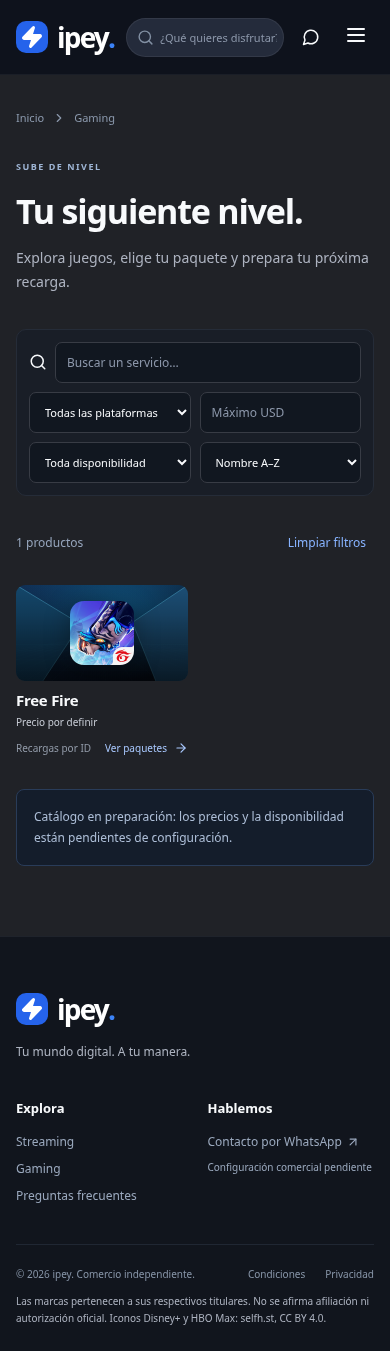
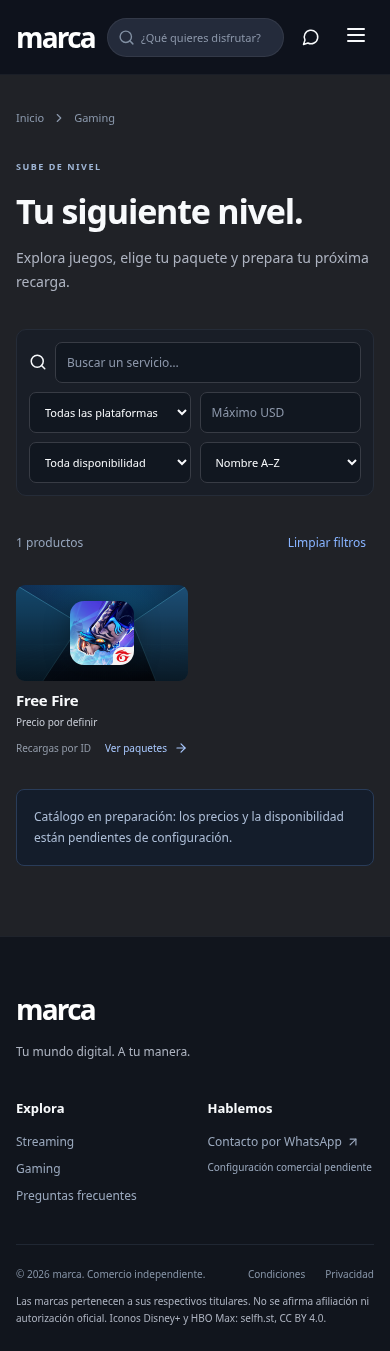
Sustituir identidad provisional por el texto marca

diff --git a/src/main.tsx b/src/main.tsx
@@ -1,6 +1,6 @@
 import React,{useEffect,useRef,useState} from 'react';
 import {createRoot} from 'react-dom/client';
-import {ArrowRight,ArrowUpRight,Search,Zap,Gamepad2,MessageCircle,Menu,X,Check,ShieldCheck,SlidersHorizontal,ChevronRight,Diamond,Clapperboard} from 'lucide-react';
+import {ArrowRight,ArrowUpRight,Search,Gamepad2,MessageCircle,Menu,X,Check,ShieldCheck,SlidersHorizontal,ChevronRight,Diamond} from 'lucide-react';
 import {business,catalog,type Product} from './catalog';
 import {money,purchasable,validPlayerId,whatsappUrl,orderMessage,promotion} from './commerce';
 import {ProductIdentity} from './ProductIdentity';
@@ -16,7 +16,7 @@ function App(){
  const filtered=products.filter(p=>(!category||p.category===category)&&(!query||`${p.name} ${p.description}`.toLowerCase().includes(query.toLowerCase()))&&(!selected||p.id===selected)&&(!duration||p.variants.some(v=>v.duration===Number(duration)))&&(!availability||p.variants.some(v=>purchasable(p,v)))&&(!max||p.variants.some(v=>v.price!==null&&v.price<=Number(max)))).sort((a,b)=>{const price=(p:Product)=>Math.min(...p.variants.filter(v=>v.price!==null).map(v=>v.price!));return sort==='asc'?price(a)-price(b)||a.name.localeCompare(b.name):sort==='desc'?price(b)-price(a)||a.name.localeCompare(b.name):a.name.localeCompare(b.name)});
  function reset(){setQuery('');setSelected('');setDuration('');setAvailability('');setMax('');setSort('name')}
  const contact=whatsappUrl('Hola, quisiera información sobre el catálogo.');
- return <><a className="skip" href="#contenido">Saltar al contenido</a><header><div className="nav wrap"><a className="brand" href="#/" aria-label="Ipey inicio"><span className="brand-mark"><Zap fill="currentColor" size={24}/></span>ipey<span className="brand-dot">.</span></a><nav className={menu?'open':''} aria-label="Principal">{[['/','Inicio'],['/streaming','Streaming'],['/juegos','Juegos']].map(([path,label])=><a key={path} onClick={reset} className={route===path?'active':''} href={`#${path}`}>{label}</a>)}</nav><form className="nav-search" onSubmit={e=>{e.preventDefault();location.hash='/buscar'}}><Search size={17}/><input aria-label="Buscar en el catálogo" placeholder="¿Qué quieres disfrutar?" value={query} onChange={e=>setQuery(e.target.value)}/></form><a className="contact" aria-label="Contacto por WhatsApp" href={contact||'#/contacto'}><MessageCircle size={18}/><span>Hablemos</span><ArrowUpRight size={15}/></a><button className="menu-button" aria-label="Abrir menú" aria-expanded={menu} onClick={()=>setMenu(!menu)}>{menu?<X/>:<Menu/>}</button></div></header>
+ return <><a className="skip" href="#contenido">Saltar al contenido</a><header><div className="nav wrap"><a className="brand" href="#/" aria-label="Inicio">marca</a><nav className={menu?'open':''} aria-label="Principal">{[['/','Inicio'],['/streaming','Streaming'],['/juegos','Juegos']].map(([path,label])=><a key={path} onClick={reset} className={route===path?'active':''} href={`#${path}`}>{label}</a>)}</nav><form className="nav-search" onSubmit={e=>{e.preventDefault();location.hash='/buscar'}}><Search size={17}/><input aria-label="Buscar en el catálogo" placeholder="¿Qué quieres disfrutar?" value={query} onChange={e=>setQuery(e.target.value)}/></form><a className="contact" aria-label="Contacto por WhatsApp" href={contact||'#/contacto'}><MessageCircle size={18}/><span>Hablemos</span><ArrowUpRight size={15}/></a><button className="menu-button" aria-label="Abrir menú" aria-expanded={menu} onClick={()=>setMenu(!menu)}>{menu?<X/>:<Menu/>}</button></div></header>
  <main id="contenido" className="wrap">
  {route==='/'?<><section className="hero storefront-hero"><div className="hero-copy"><span className="eyebrow"><span className="blue-dot"/> STREAMING · MÚSICA · GAMING</span><h1>Elige qué<br/><span>disfrutar hoy.</span></h1><p>Tus historias. Tu música. Tu próxima partida.<br/>Encuentra tus favoritos en un solo lugar.</p><div className="actions"><a className="button" href="#/streaming" onClick={reset}>Explorar streaming <ArrowRight size={18}/></a><a className="button secondary" href="#/juegos" onClick={reset}><Gamepad2 size={19}/> Ver juegos</a></div></div><div className="hero-feature" aria-hidden="true"><div className="feature-orbit"/><div className="feature-screen screen-cinema"><ProductIdentity id="netflix" name="Netflix"/><span>UNA HISTORIA MÁS.</span></div><div className="feature-screen screen-sound"><ProductIdentity id="spotify" name="Spotify"/><div className="equalizer">{[28,50,38,76,58,92,43,65,34,54,24].map((h,i)=><i key={i} style={{height:`${h}%`}}/>)}</div></div><div className="feature-screen screen-play"><Gamepad2/><span>DALE PLAY<br/>A TU MUNDO.</span><Diamond/></div><span className="hero-edition">ENTRETENIMIENTO A TU MANERA</span></div></section>
  <nav className="service-strip" aria-label="Servicios del catálogo">{products.map(p=><a key={p.id} href={`#/producto/${p.id}`} aria-label={`Explorar ${p.name}`}><ProductIdentity id={p.id} name={p.name}/><span>{p.name}</span></a>)}</nav>
@@ -24,7 +24,7 @@ function App(){
  <section className="gaming-banner"><div><span className="eyebrow">RECARGAS GAMING</span><h2>Más diamantes.<br/>Más posibilidades.</h2><p>Explora los paquetes de Free Fire y prepara tu solicitud con tu ID de jugador.</p><a className="button" href="#/producto/free-fire">Explorar paquetes <ArrowRight size={17}/></a></div><div className="diamond-art" aria-hidden="true"><Diamond/><ProductIdentity id="free-fire" name="Free Fire"/></div></section>
  {products.some(promotion)&&<section className="section offers"><div className="section-heading"><h2>Ofertas del catálogo</h2></div><div className="product-grid">{products.filter(promotion).map(p=><Card key={p.id} p={p}/>)}</div></section>}
  <section className="section how"><span className="eyebrow">SENCILLO, DE PRINCIPIO A FIN</span><h2>Tu entretenimiento, a cuatro pasos.</h2><div className="steps">{[['Elige tu servicio','Encuentra lo que va contigo.'],['Explora las opciones','Compara planes y paquetes.'],['Revisa tu solicitud','Confirma todos los detalles.'],['Continúa por WhatsApp','Consulta disponibilidad y compra.']].map(([t,d],i)=><div key={t}><span>0{i+1}</span><h3>{t}</h3><p>{d}</p></div>)}</div></section><Faq/></>:current?<Detail key={current.id} p={current}/>:category||route==='/buscar'?<section className="catalog-page"><div className="breadcrumb"><a href="#/">Inicio</a><ChevronRight size={14}/>{title}</div><span className="eyebrow">{category==='gaming'?'SUBE DE NIVEL':'ENTRETENIMIENTO A TU MANERA'}</span><h1>{category==='streaming'?'Dale play a tu mundo.':category==='gaming'?'Tu siguiente nivel.':'Encuentra lo que te gusta.'}</h1><p className="lead">{category==='gaming'?'Explora juegos, elige tu paquete y prepara tu próxima recarga.':'Tus plataformas favoritas, en un solo lugar. Explora y compara las modalidades del catálogo.'}</p><div className="filters"><label className="search-field"><Search size={18}/><input aria-label="Buscar servicios" placeholder="Buscar un servicio…" value={query} onChange={e=>setQuery(e.target.value)}/></label><SlidersHorizontal size={19}/><select aria-label="Plataforma" value={selected} onChange={e=>setSelected(e.target.value)}><option value="">Todas las plataformas</option>{products.filter(p=>!category||p.category===category).map(p=><option value={p.id} key={p.id}>{p.name}</option>)}</select>{category!=='gaming'&&<select aria-label="Duración" value={duration} onChange={e=>setDuration(e.target.value)}><option value="">Todas las duraciones</option><option value="1">1 mes</option><option value="3">3 meses</option></select>}<input type="number" min="0" aria-label="Precio máximo" placeholder={`Máximo ${business.currency}`} value={max} onChange={e=>setMax(e.target.value)}/><select aria-label="Disponibilidad" value={availability} onChange={e=>setAvailability(e.target.value)}><option value="">Toda disponibilidad</option><option value="yes">Disponibles</option></select><select aria-label="Ordenar" value={sort} onChange={e=>setSort(e.target.value)}><option value="name">Nombre A–Z</option><option value="asc">Menor precio</option><option value="desc">Mayor precio</option></select></div><div className="results"><span>{filtered.length} productos</span><button className="text-button" onClick={reset}>Limpiar filtros</button></div>{filtered.length?<div className="product-grid">{filtered.map(p=><Card key={p.id} p={p}/>)}</div>:<div className="empty"><Search/><h2>No encontramos resultados</h2><p>Prueba otro término o cambia los filtros.</p><button className="button" onClick={reset}>Mostrar todo</button></div>}<div className="notice">Catálogo en preparación: los precios y la disponibilidad están pendientes de configuración.</div></section>:['/condiciones','/privacidad','/contacto'].includes(route)?<section className="legal"><span className="eyebrow">INFORMACIÓN DE LA TIENDA</span><h1>{title}</h1><p>{route==='/condiciones'?business.terms:route==='/privacidad'?business.privacy:business.contact}</p>{route==='/contacto'&&(contact?<a className="button" href={contact} target="_blank" rel="noreferrer">Abrir WhatsApp</a>:<div className="notice">WhatsApp pendiente de configuración. Las solicitudes todavía no están habilitadas.</div>)}</section>:<section className="legal"><h1>Página no encontrada</h1><a className="button" href="#/">Volver al inicio</a></section>}
- </main><footer><div className="wrap footer-top"><div><a className="brand" href="#/"><span className="brand-mark"><Zap fill="currentColor"/></span>ipey<span className="brand-dot">.</span></a><p>Tu mundo digital. A tu manera.</p></div><div><h3>Explora</h3><a href="#/streaming" onClick={reset}>Streaming</a><a href="#/juegos" onClick={reset}>Gaming</a><a href="#/" onClick={()=>{location.hash='/';setTimeout(()=>document.getElementById('preguntas')?.scrollIntoView(),100)}}>Preguntas frecuentes</a></div><div><h3>Hablemos</h3><a href={contact||'#/contacto'}>Contacto por WhatsApp <ArrowUpRight size={14}/></a><span>Configuración comercial pendiente</span></div></div><div className="wrap footer-bottom"><span>© {new Date().getFullYear()} {business.name}. Comercio independiente.</span><div><a href="#/condiciones">Condiciones</a><a href="#/privacidad">Privacidad</a></div><p>Las marcas pertenecen a sus respectivos titulares. No se afirma afiliación ni autorización oficial. Iconos Disney+ y HBO Max: <a href="https://selfh.st/icons/" target="_blank" rel="noreferrer">selfh.st</a>, <a href="https://creativecommons.org/licenses/by/4.0/" target="_blank" rel="noreferrer">CC BY 4.0</a>.</p></div></footer></>;
+ </main><footer><div className="wrap footer-top"><div><a className="brand" href="#/">marca</a><p>Tu mundo digital. A tu manera.</p></div><div><h3>Explora</h3><a href="#/streaming" onClick={reset}>Streaming</a><a href="#/juegos" onClick={reset}>Gaming</a><a href="#/" onClick={()=>{location.hash='/';setTimeout(()=>document.getElementById('preguntas')?.scrollIntoView(),100)}}>Preguntas frecuentes</a></div><div><h3>Hablemos</h3><a href={contact||'#/contacto'}>Contacto por WhatsApp <ArrowUpRight size={14}/></a><span>Configuración comercial pendiente</span></div></div><div className="wrap footer-bottom"><span>© {new Date().getFullYear()} {business.name}. Comercio independiente.</span><div><a href="#/condiciones">Condiciones</a><a href="#/privacidad">Privacidad</a></div><p>Las marcas pertenecen a sus respectivos titulares. No se afirma afiliación ni autorización oficial. Iconos Disney+ y HBO Max: <a href="https://selfh.st/icons/" target="_blank" rel="noreferrer">selfh.st</a>, <a href="https://creativecommons.org/licenses/by/4.0/" target="_blank" rel="noreferrer">CC BY 4.0</a>.</p></div></footer></>;
 }
 function Card({p}:{p:Product}){
  const prices=p.variants.filter(v=>purchasable(p,v)).map(v=>v.price!);

diff --git a/src/catalog.ts b/src/catalog.ts
@@ -1,6 +1,6 @@
 export type Variant = { id:string; name:string; duration?:number; diamonds?:number; price:number|null; previousPrice?:number; available:boolean; features:string[] };
 export type Product = { id:string; name:string; category:'streaming'|'gaming'; description:string; color:string; symbol:string; featured:boolean; active:boolean; offer:boolean; conditions:string; variants:Variant[] };
-export const business = {name:'ipey', whatsapp:'NUMERO_WHATSAPP_PENDIENTE', currency:'USD', locale:'es-NI', contact:'Contacto comercial pendiente', terms:'Las modalidades, autorizaciones de comercialización, entrega, cancelaciones y reembolsos están pendientes de confirmación. No se aceptan pedidos hasta completar la información comercial.', privacy:'Esta aplicación no guarda pedidos ni el ID de jugador en un servidor. Al continuar a WhatsApp compartes el resumen con ese servicio, sujeto a su política de privacidad. Responsable y canal para consultas de privacidad: pendientes de configuración.'};
+export const business = {name:'marca', whatsapp:'NUMERO_WHATSAPP_PENDIENTE', currency:'USD', locale:'es-NI', contact:'Contacto comercial pendiente', terms:'Las modalidades, autorizaciones de comercialización, entrega, cancelaciones y reembolsos están pendientes de confirmación. No se aceptan pedidos hasta completar la información comercial.', privacy:'Esta aplicación no guarda pedidos ni el ID de jugador en un servidor. Al continuar a WhatsApp compartes el resumen con ese servicio, sujeto a su política de privacidad. Responsable y canal para consultas de privacidad: pendientes de configuración.'};
 const conditions='Precio, disponibilidad, modalidad de entrega y condiciones pendientes de confirmación. La comercialización debe respetar las condiciones y autorizaciones del proveedor.';
 const stream=(id:string,name:string,description:string,color:string,symbol:string):Product=>({id,name,description,color,symbol,category:'streaming',featured:true,active:true,offer:false,conditions,variants:[{id:'mensual',name:'Modalidad mensual',duration:1,price:null,available:false,features:['Características del plan pendientes de configurar']},{id:'trimestral',name:'Modalidad trimestral',duration:3,price:null,available:false,features:['Características del plan pendientes de configurar']}]});
 export const catalog:Product[]=[stream('netflix','Netflix','Encuentra tu próxima historia. Explora las modalidades del catálogo.','#da2335','N'),stream('disney','Disney+','Un universo de historias para descubrir a tu manera.','#1c64df','D+'),stream('max','HBO Max','Historias que se quedan contigo. Consulta las opciones.','#6444ce','max'),stream('crunchyroll','Crunchyroll','Tu próxima aventura empieza con un nuevo episodio.','#ed781b','◉'),stream('spotify','Spotify','Ponle una nueva banda sonora a tus días.','#1bba68','≋'),{id:'free-fire',name:'Free Fire',description:'Prepara tu próxima partida. Explora los paquetes de diamantes.',category:'gaming',color:'#dc8c27',symbol:'FF',featured:true,active:true,offer:false,conditions:'Verifica el ID antes de solicitar una recarga. Región, compatibilidad, entrega y condiciones comerciales pendientes. Nunca compartas tu contraseña.',variants:[100,310,520,1060,2180].map(diamonds=>({id:String(diamonds),name:`${diamonds} diamantes`,diamonds,price:null,available:false,features:['Compatibilidad y condiciones pendientes de confirmar']}))}];

diff --git a/index.html b/index.html
@@ -1,1 +1,1 @@
-<!doctype html><html lang="es"><head><meta charset="UTF-8"/><meta name="viewport" content="width=device-width, initial-scale=1.0"/><meta name="theme-color" content="#080B10"/><meta name="description" content="Explora streaming y recargas gaming en Ipey. Consulta planes, compara opciones y prepara tu solicitud por WhatsApp."/><title>Ipey — Tu siguiente nivel de entretenimiento</title><link rel="icon" href="./favicon.svg" type="image/svg+xml"/></head><body><div id="root"></div><script type="module" src="/src/main.tsx"></script></body></html>
+<!doctype html><html lang="es"><head><meta charset="UTF-8"/><meta name="viewport" content="width=device-width, initial-scale=1.0"/><meta name="theme-color" content="#080B10"/><meta name="description" content="Explora streaming y recargas gaming. Consulta planes, compara opciones y prepara tu solicitud por WhatsApp."/><title>marca — Tu siguiente nivel de entretenimiento</title></head><body><div id="root"></div><script type="module" src="/src/main.tsx"></script></body></html>

diff --git a/README.md b/README.md
@@ -22,7 +22,7 @@ Los servicios usan imágenes de sus marcas guardadas localmente, tanto en las ta
 - `src/main.tsx`: páginas, tarjetas, filtros, detalle, resumen accesible con dialog nativo, FAQ y navegación.
 - `src/style.css`: sistema visual y adaptaciones móviles.
 - `src/commerce.test.ts`, `e2e/`: pruebas de negocio y navegador.
-- `public/favicon.svg`: símbolo de marca original; el encabezado usa el mismo concepto con Lucide.
+- La identidad comercial está pendiente: el encabezado y el pie muestran únicamente el texto provisional «marca», sin símbolo ni favicon.
 
 Para habilitar una modalidad, configurar un precio numérico mayor que cero y `available: true`; el producto debe tener `active: true`. Cambiar condiciones y características con información comercial comprobada. La moneda se centraliza en `business.currency`; todos los precios usan esa moneda. `previousPrice` solo produce una promoción si supera al precio actual y el producto tiene `offer: true` y la variante está disponible. Los precios desconocidos son `null`. No hay descuentos o beneficios inventados. Desactivar un producto con `active: false`. Nuevos juegos usan `category: 'gaming'` y variantes con `diamonds`; siguen el flujo de ID de jugador. Para otros tipos de identificador será necesario ampliar su validación.
 
